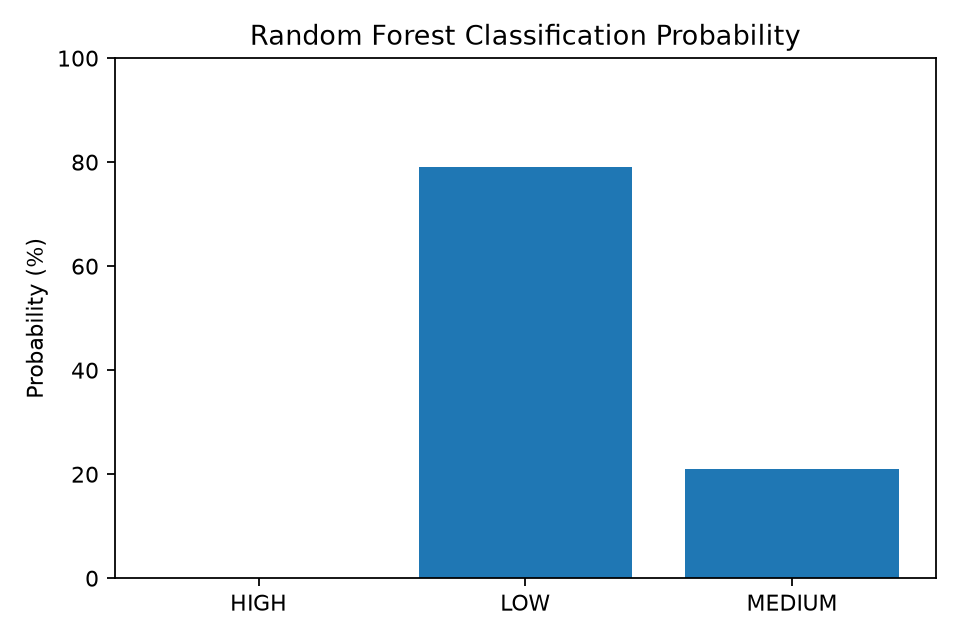
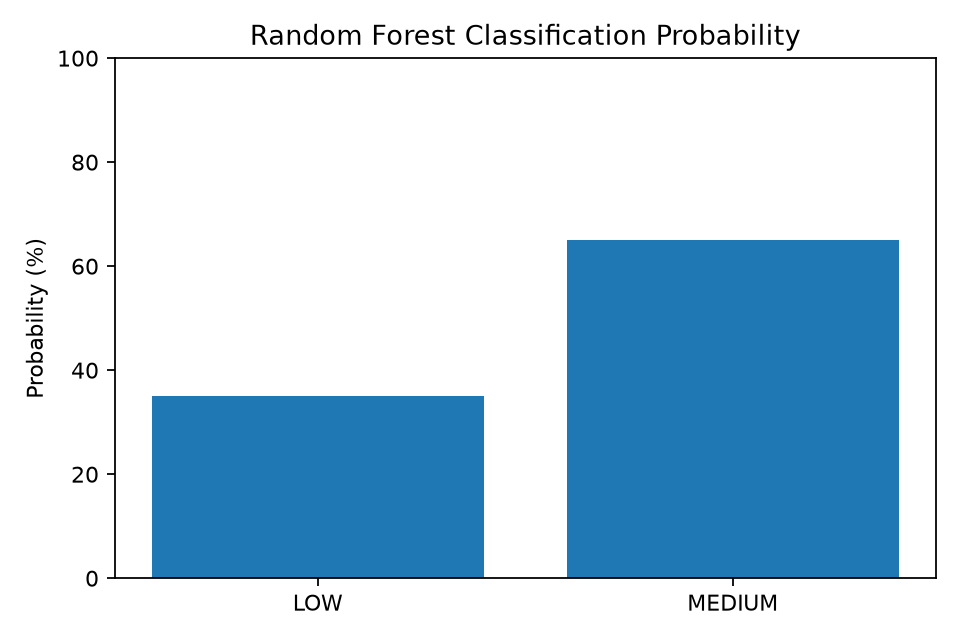
update classification

Changed region(s): [[0.1562, 0.25, 0.6562, 0.9688], [0.6562, 0.375, 0.9375, 0.9062], [0.7188, 0.9062, 0.875, 0.9688]]

diff --git a/frontend/classification.php b/frontend/classification.php
@@ -408,25 +408,173 @@ Classification Result
 
     </div>
 
-    <div class="card-body text-center">
+    <div class="card-body">
 
-        <h6>
+        <div class="row text-center">
 
-            Random Forest Accuracy
+            <div class="col-md-3">
 
-        </h6>
+                <h6>Accuracy</h6>
 
-        <p class="display-5 fw-bold text-success">
+                <p class="display-6 fw-bold text-success">
 
-            <?= number_format($result["accuracy"], 2) ?>%
+                    <?= number_format($result["accuracy"], 2) ?>%
+
+                </p>
+
+            </div>
+
+            <div class="col-md-3">
+
+                <h6>Precision</h6>
+
+                <p class="display-6 fw-bold">
+
+                    <?= number_format($result["precision"], 2) ?>%
+
+                </p>
+
+            </div>
+
+            <div class="col-md-3">
+
+                <h6>Recall</h6>
+
+                <p class="display-6 fw-bold">
+
+                    <?= number_format($result["recall"], 2) ?>%
+
+                </p>
+
+            </div>
+
+            <div class="col-md-3">
+
+                <h6>F1-Score</h6>
+
+                <p class="display-6 fw-bold">
+
+                    <?= number_format($result["f1"], 2) ?>%
+
+                </p>
+
+            </div>
+
+        </div>
+
+        <p class="text-muted text-center mb-0">
+
+            Metrics from Test Dataset
 
         </p>
 
-        <p class="text-muted mb-0">
+    </div>
 
-            Accuracy from Test Dataset
+</div>
+
+<div class="card shadow-sm border-0 mb-4">
+
+    <div class="card-header">
+
+        Confusion Matrix
+
+    </div>
+
+    <div class="card-body">
+
+        <?php
+        $cm = $result["confusion_matrix"] ?? [];
+        $labels = $result["confusion_labels"] ?? ["LOW", "MEDIUM", "HIGH"];
+        ?>
+
+        <?php if(count($cm) === 3): ?>
+
+        <div class="table-responsive">
+
+            <table class="table table-bordered text-center align-middle">
+
+                <thead class="table-light">
+
+                    <tr>
+
+                        <th rowspan="2">
+
+                            Actual \ Predicted
+
+                        </th>
+
+                        <th colspan="3">
+
+                            Predicted
+
+                        </th>
+
+                    </tr>
+
+                    <tr>
+
+                        <?php foreach($labels as $label): ?>
+
+                        <th>
+
+                            <?= htmlspecialchars($label) ?>
+
+                        </th>
+
+                        <?php endforeach; ?>
+
+                    </tr>
+
+                </thead>
+
+                <tbody>
+
+                    <?php foreach($cm as $i => $row): ?>
+
+                    <tr>
+
+                        <th class="table-light">
+
+                            <?= htmlspecialchars($labels[$i]) ?>
+
+                        </th>
+
+                        <?php foreach($row as $value): ?>
+
+                        <td class="fs-5 fw-bold">
+
+                            <?= (int)$value ?>
+
+                        </td>
+
+                        <?php endforeach; ?>
+
+                    </tr>
+
+                    <?php endforeach; ?>
+
+                </tbody>
+
+            </table>
+
+        </div>
+
+        <p class="text-muted text-center mb-0">
+
+            Rows = Actual Class &nbsp; | &nbsp;
+            Columns = Predicted Class
 
         </p>
+
+        <?php else: ?>
+
+        <div class="alert alert-warning mb-0">
+
+            Confusion Matrix data not available.
+
+        </div>
+
+        <?php endif; ?>
 
     </div>
 

diff --git a/model/Classification_RandomForest.py b/model/Classification_RandomForest.py
@@ -6,6 +6,13 @@ import sys
 import json
 import base64
 import warnings
+from sklearn.metrics import (
+    accuracy_score,
+    confusion_matrix,
+    precision_score,
+    recall_score,
+    f1_score
+)
 
 
 warnings.filterwarnings("ignore")
@@ -525,13 +532,49 @@ def train_random_forest(df, selected_year):
         X_test
     )
 
-    # Accuracy
+    # Confusion Matrix
+    labels = ["LOW", "MEDIUM", "HIGH"]
+
+    cm = confusion_matrix(
+        y_test,
+        y_pred,
+        labels=labels
+    )
+
+    # Model Metrics
     accuracy = accuracy_score(
         y_test,
         y_pred
     )
 
-    return model, accuracy
+    precision = precision_score(
+        y_test,
+        y_pred,
+        average="weighted",
+        zero_division=0
+    )
+
+    recall = recall_score(
+        y_test,
+        y_pred,
+        average="weighted",
+        zero_division=0
+    )
+
+    f1 = f1_score(
+        y_test,
+        y_pred,
+        average="weighted",
+        zero_division=0
+    )
+
+    return model, accuracy, {
+        "confusion_matrix": cm.tolist(),
+        "labels": labels,
+        "precision": round(float(precision), 4),
+        "recall": round(float(recall), 4),
+        "f1": round(float(f1), 4)
+    }
 
 def predict_density_level(
     model,
@@ -779,10 +822,10 @@ def main():
     )
 
     # Train Random Forest
-    model, accuracy = train_random_forest(
-        df,
-        selected_year
-    )
+    model, accuracy, metrics = train_random_forest(
+    df,
+    selected_year
+)
 
     # Predict จังหวัด / ปี / เดือนที่เลือก
     result = predict_density_level(
@@ -826,12 +869,13 @@ def main():
 
         "probability_graph": probability_graph,
 
-        "accuracy": round(
-            float(accuracy) * 100,
-            2
-        )
-
-    })
+        "accuracy": round(float(accuracy) * 100,2),
+        "precision": round(metrics["precision"] * 100,2),
+        "recall": round(metrics["recall"] * 100,2),
+        "f1": round(metrics["f1"] * 100,2),
+        "confusion_matrix": metrics["confusion_matrix"],
+        "confusion_labels": metrics["labels"]
+})
 
 if __name__ == "__main__":
 
